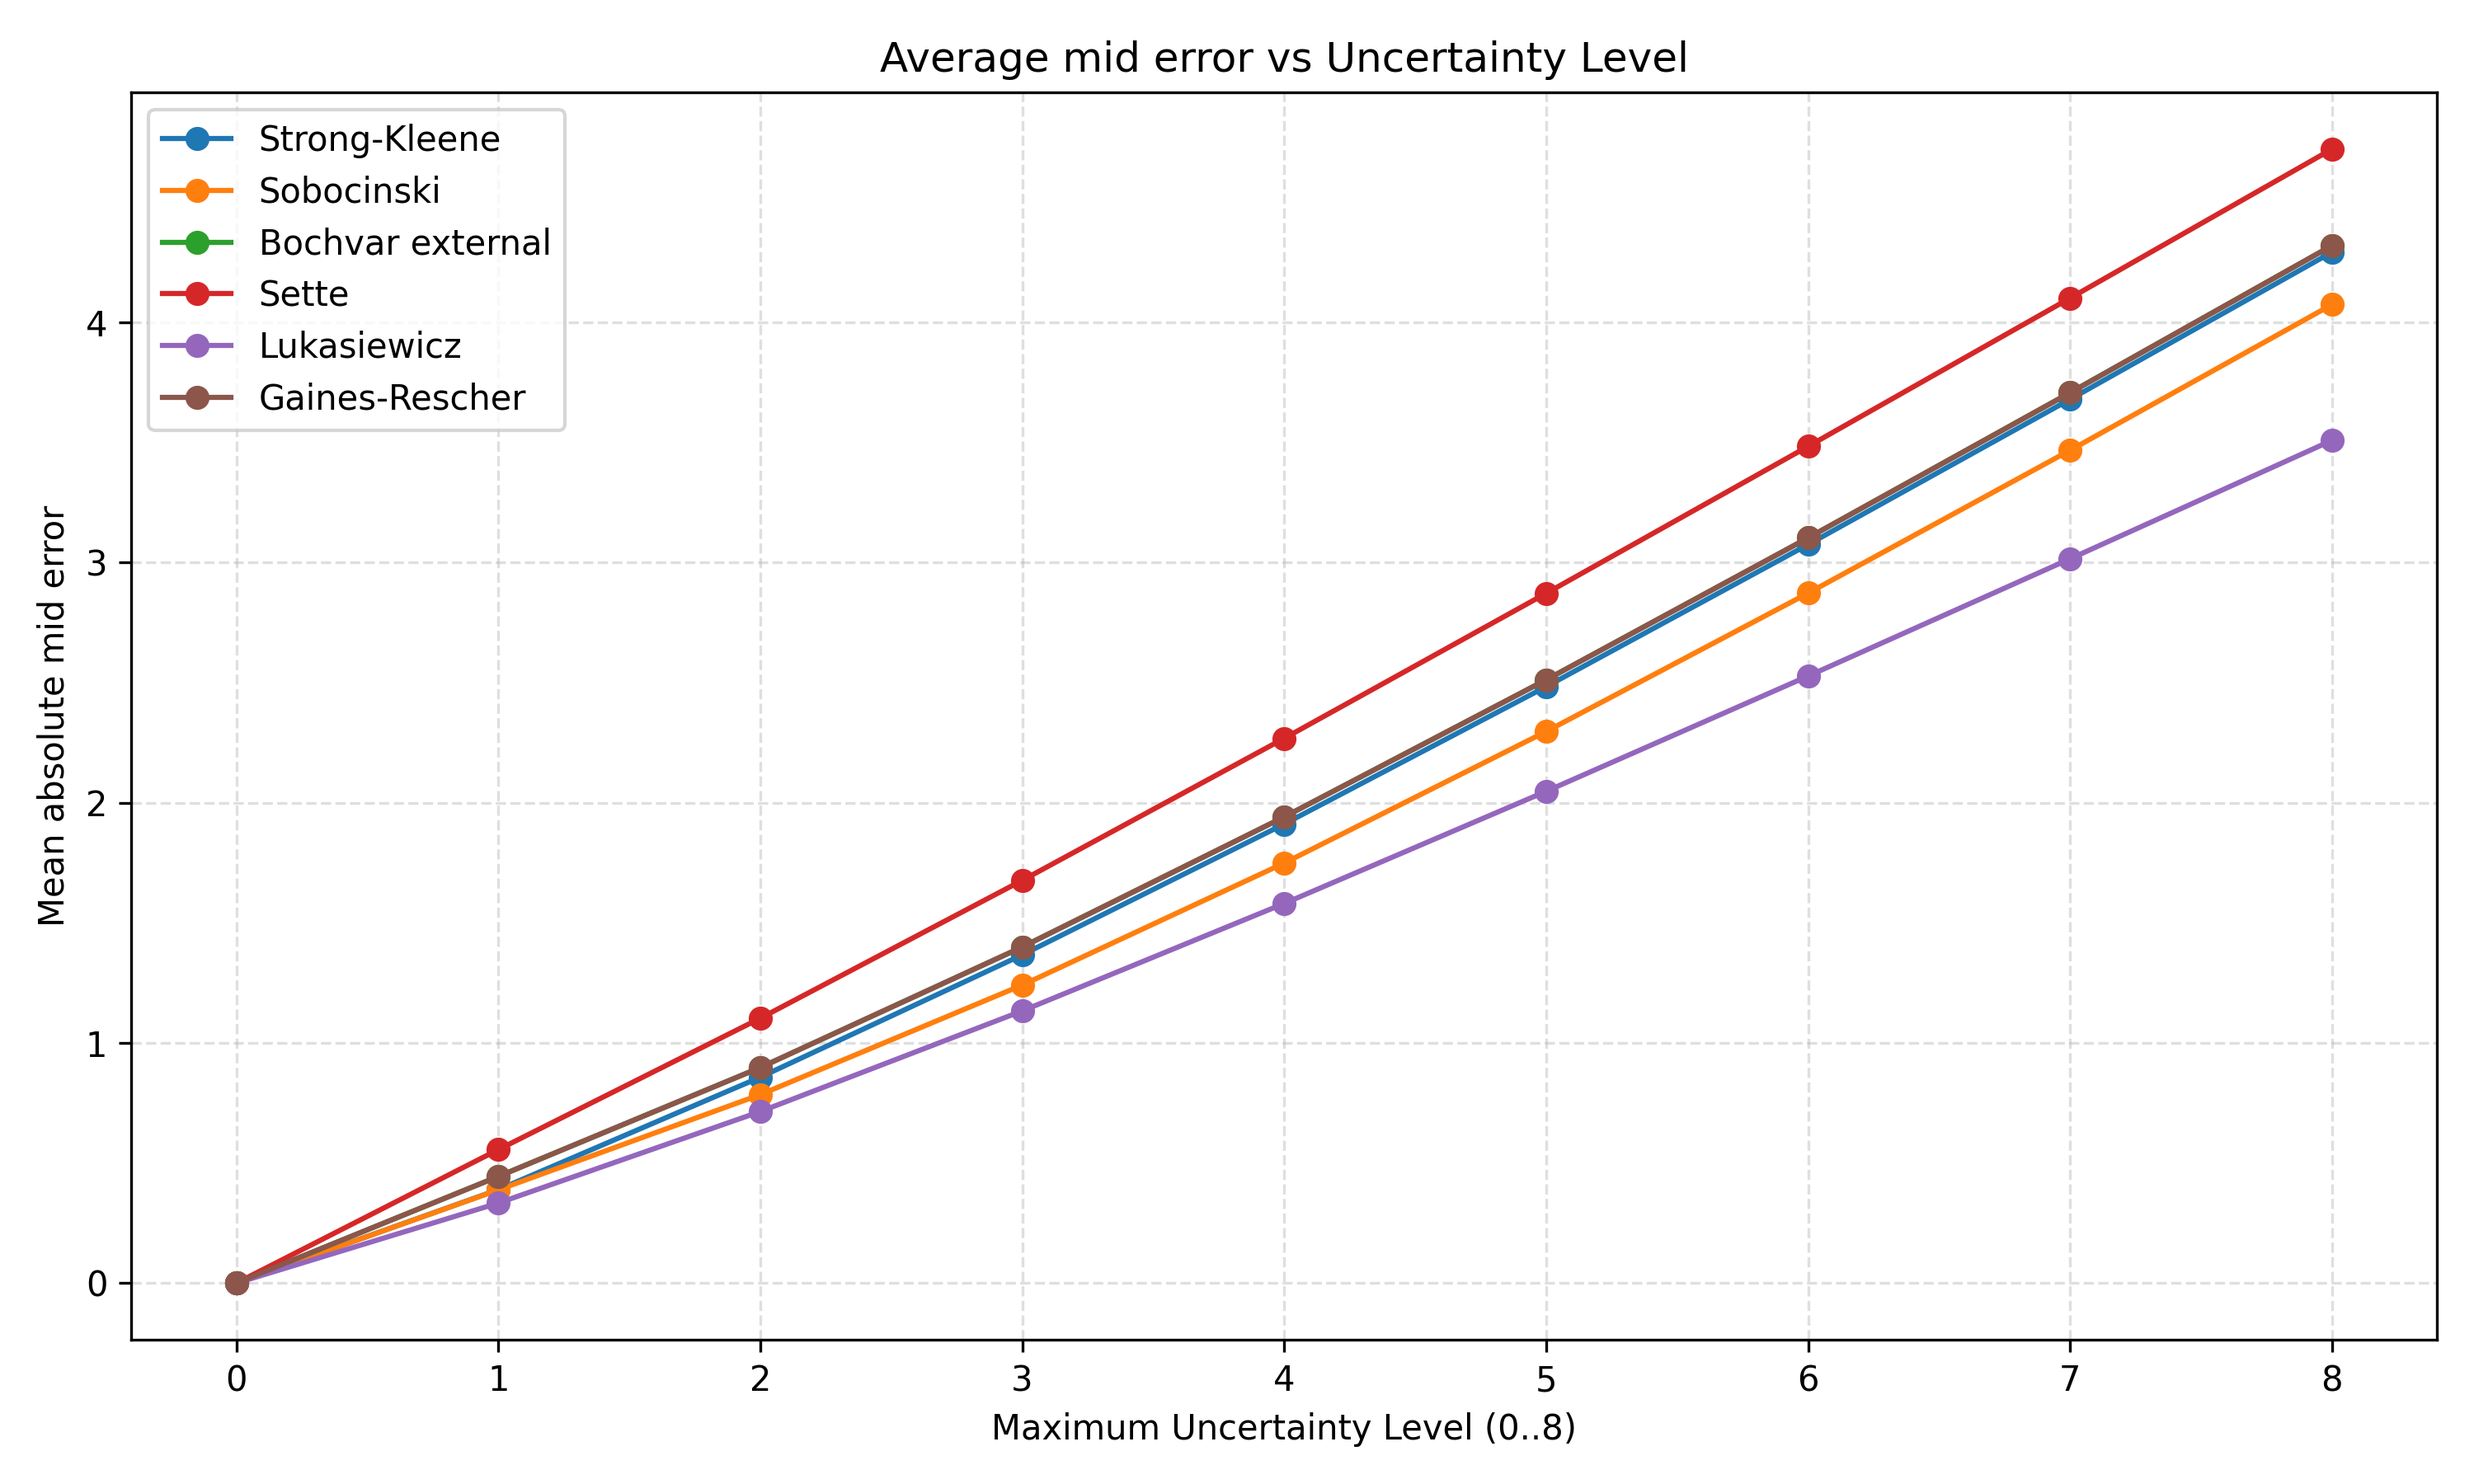
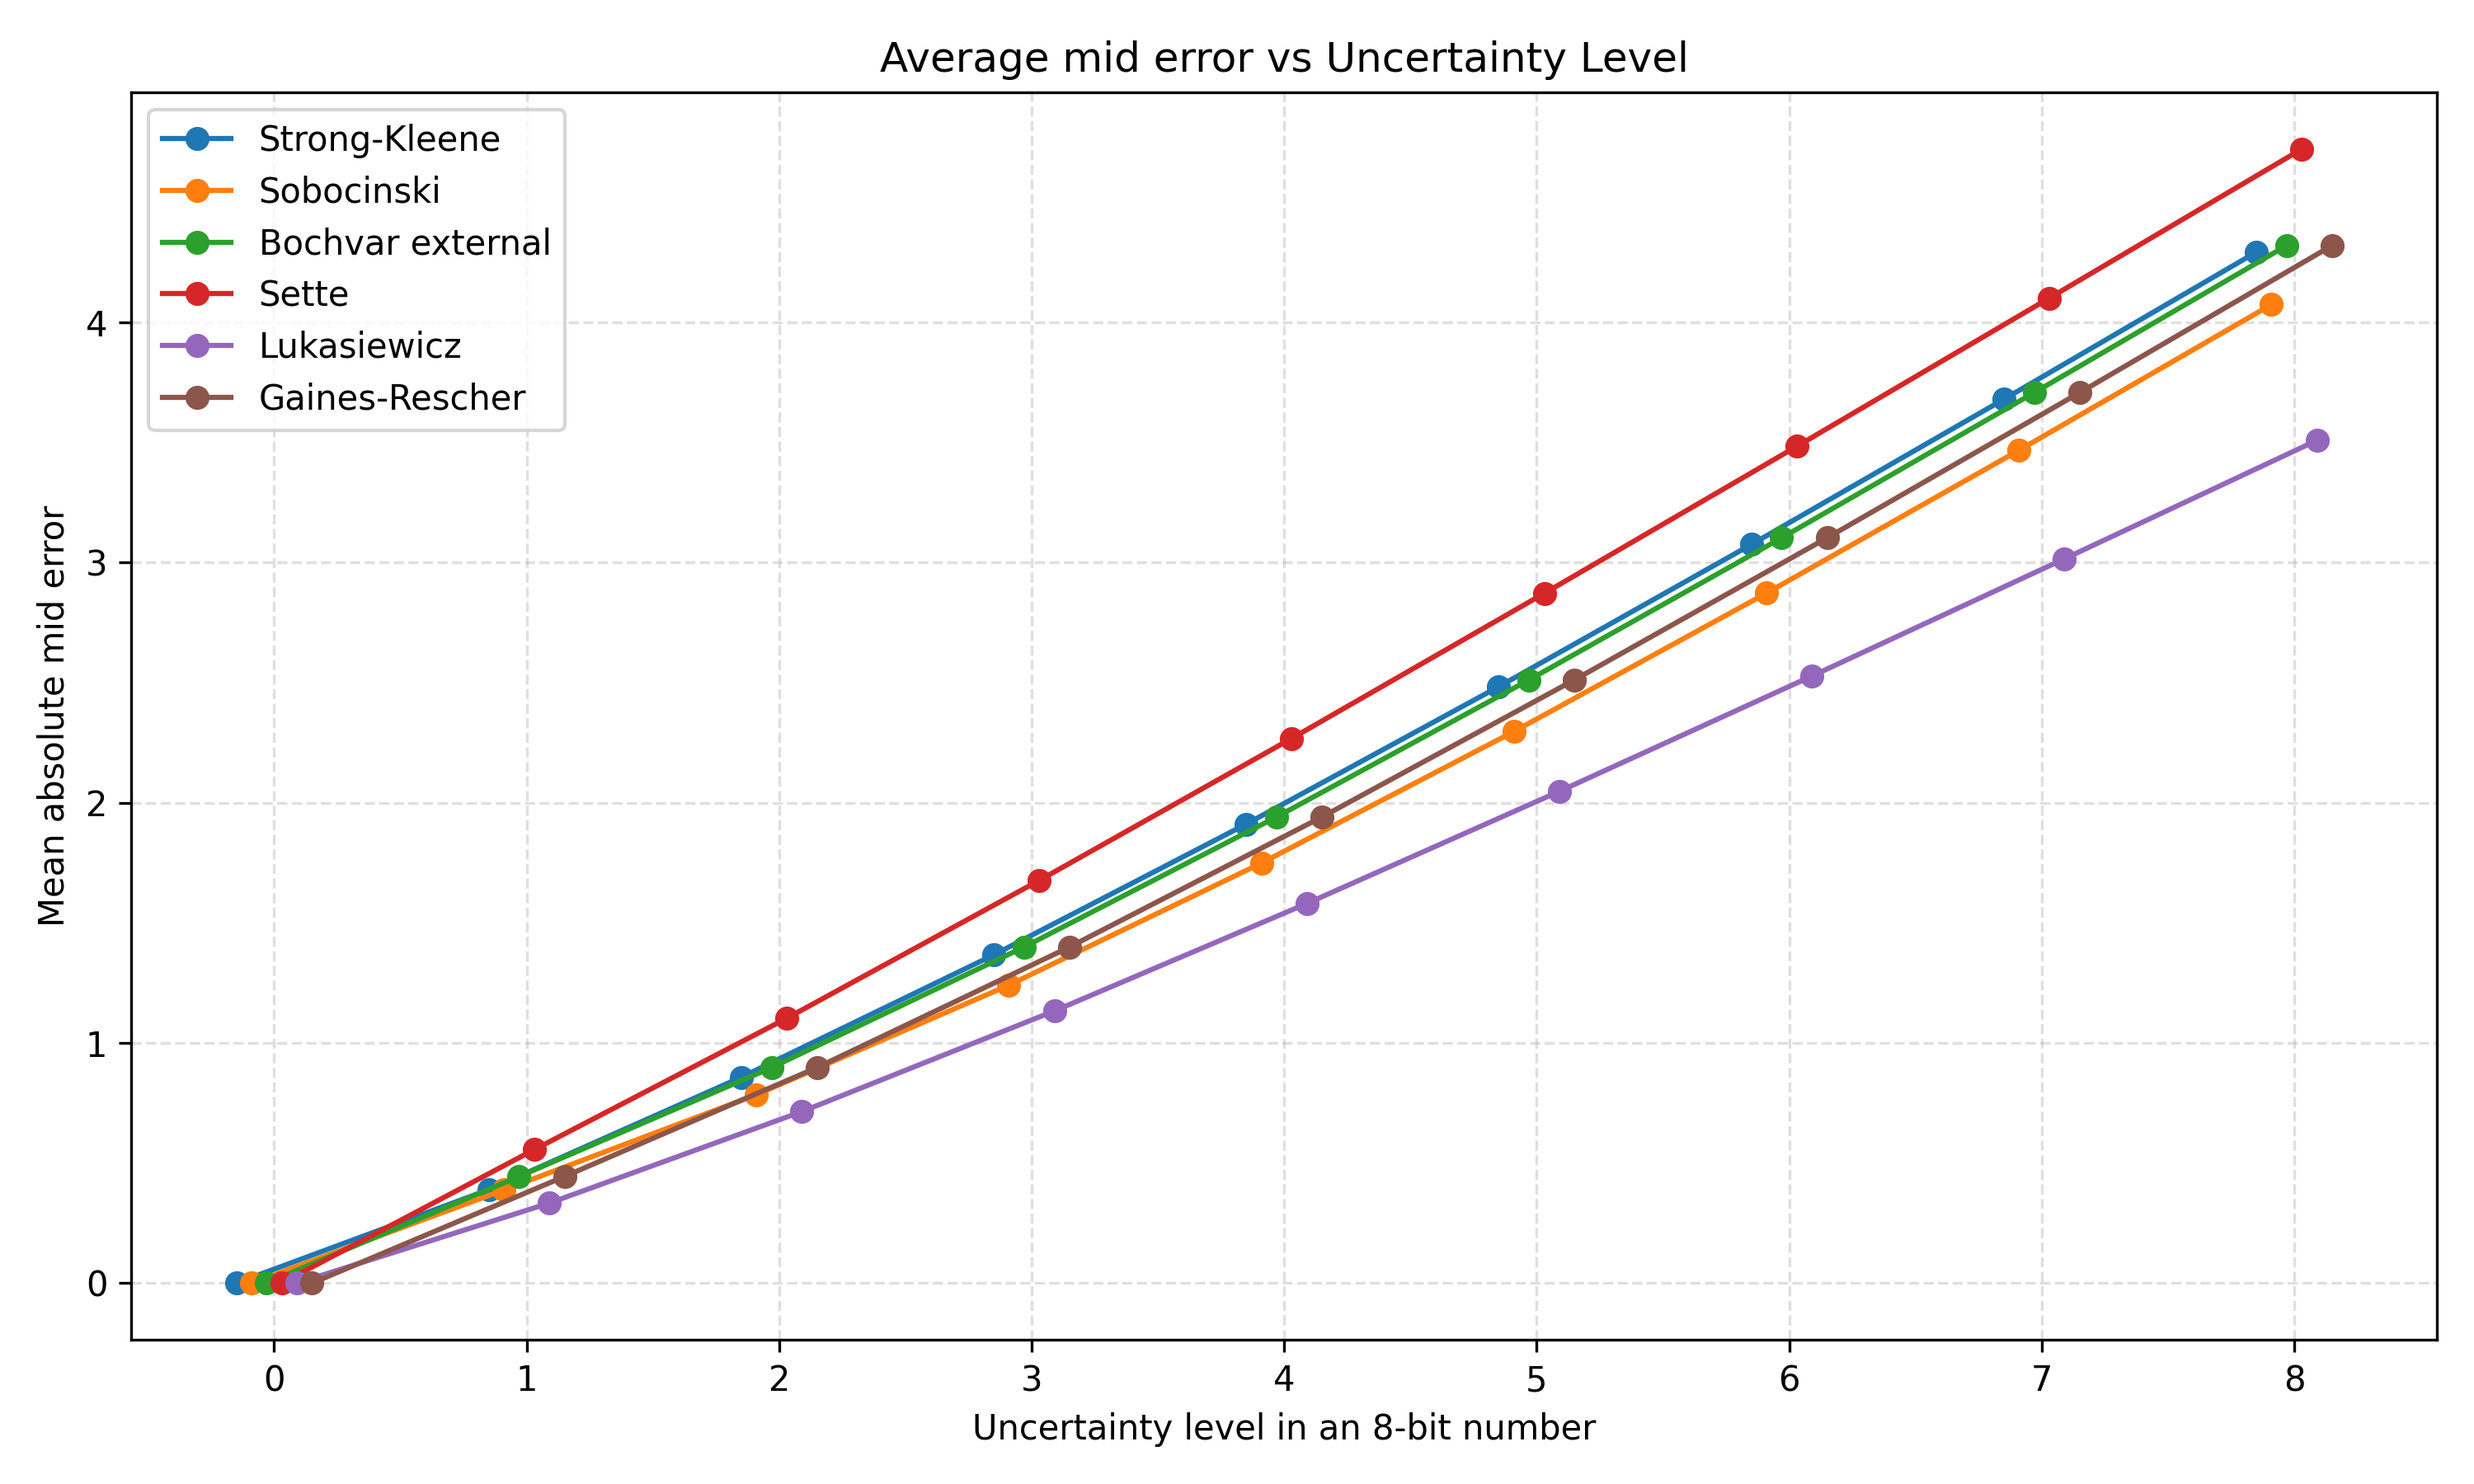
update arith study files

diff --git a/ternary-arithmetic/adder_approx_v3.py b/ternary-arithmetic/adder_approx_v3.py
@@ -3,7 +3,6 @@ import json
 import numpy as np
 import matplotlib.pyplot as plt
 
-# ---- your adders ----
 from Adders.pesi_op_adder import full_op_adder
 from Adders.sobocinski_adder import map_quasi_adder
 from Adders.strong_kleene_adder import strong_kleene_full_adder
@@ -29,9 +28,6 @@ REP_WIDTH = 10
 SIGN_INDEX = REP_WIDTH - 1
 
 
-# ============================================================
-# TWO'S COMPLEMENT FOR TRITS
-# ============================================================
 def twos_complement_(vec, width):
     vec = vec[:] + [-1] * (width - len(vec))
     result = []
@@ -55,9 +51,6 @@ def twos_complement_(vec, width):
     return result
 
 
-# ============================================================
-# MAGNITUDE BOUNDS
-# ============================================================
 def magnitude_bounds(bits):
     mn = 0
     mx = 0
@@ -70,9 +63,6 @@ def magnitude_bounds(bits):
     return mn, mx
 
 
-# ============================================================
-# SIGN-AWARE DECODING
-# ============================================================
 def decode_bounds_from_trits(trits):
     mn = 0
     mx = 0
@@ -103,15 +93,11 @@ def decode_bounds_from_trits(trits):
         # so mx unchanged
         pass
     elif s == -1:
-        # definitely no contribution
         pass
 
     return mn, mx
 
 
-# ============================================================
-# ADDER EXECUTION
-# ============================================================
 def adder_sum_trits(adder_func, A, B):
     carry = -1
     out = []
@@ -153,9 +139,7 @@ def gen_unsigned_vectors(level, n_bits=N_BITS, width=REP_WIDTH):
             yield padded
 
 
-# ============================================================
-# RUN EXPERIMENT ACROSS LEVELS 0..8
-# ============================================================
+
 LEVELS = list(range(0, N_BITS + 1))  # 0..8
 level_results = {adder: {"min": [], "max": [], "mid": []} for adder in adders}
 
@@ -213,22 +197,38 @@ for lvl in LEVELS:
             level_results[name][metric].append(arr.mean())
 
 
-# ============================================================
-# PLOT: ADDER COMPARISON VS UNCERTAINTY LEVEL
-# ============================================================
+
 def plot_metric(metric):
     plt.figure(figsize=(10, 6))
-    for name in adders:
-        plt.plot(LEVELS, level_results[name][metric], marker="o", label=name)
+
+    num_adders = len(adders)
+    offset_range = 0.15
+    offsets = np.linspace(-offset_range, offset_range, num_adders)
+
+    for (idx, name), offset in zip(enumerate(adders), offsets):
+        x_shifted = np.array(LEVELS) + offset
+
+        plt.plot(
+            x_shifted,
+            level_results[name][metric],
+            marker="o",
+            label=name
+        )
 
     plt.title(f"Average {metric} error vs Uncertainty Level")
-    plt.xlabel("Maximum Uncertainty Level (0..8)")
+    plt.xlabel("Uncertainty level in an 8-bit number")
     plt.ylabel(f"Mean absolute {metric} error")
     plt.grid(True, linestyle="--", alpha=0.4)
     plt.legend()
+
+    # 🔥 Force x-axis ticks to show every level 0..8
+    plt.xticks(LEVELS)
+
     plt.tight_layout()
     plt.savefig(f"comparison_{metric}.png", dpi=300)
     plt.show()
+
+
 
 
 plot_metric("min")
@@ -236,9 +236,7 @@ plot_metric("max")
 plot_metric("mid")
 
 
-# ============================================================
-# SAVE SUMMARY
-# ============================================================
+
 with open("../uncertainty_results_by_level.json", "w") as f:
     json.dump(level_results, f, indent=2)
 

diff --git a/main.py b/main.py
@@ -21,7 +21,7 @@ from Adders.gaines_rescher_adder import gaines_ripple_add
 
 def run_htl_convolution_benchmark(
     num_images=100,
-    num_kernels=50,
+    num_kernels=10,
     K1=5,
     K2=10,
     kernel_size=3,
@@ -189,7 +189,7 @@ def run_htl_convolution_benchmark(
 # ============================================================
 
 if __name__ == "__main__":
-    results = run_htl_convolution_benchmark(uncertain_adder=bochvar_ripple_add)
+    results = run_htl_convolution_benchmark(uncertain_adder=sobocinski_ripple)
     print("\n===== HTL Benchmark Results =====")
     print("Kernel Wins:", results["total_kernel_wins"])
     print("Kernel Losses:", results["total_kernel_losses"])
